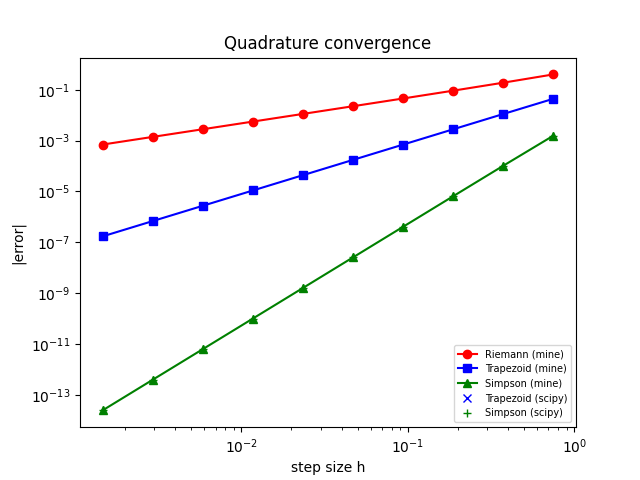
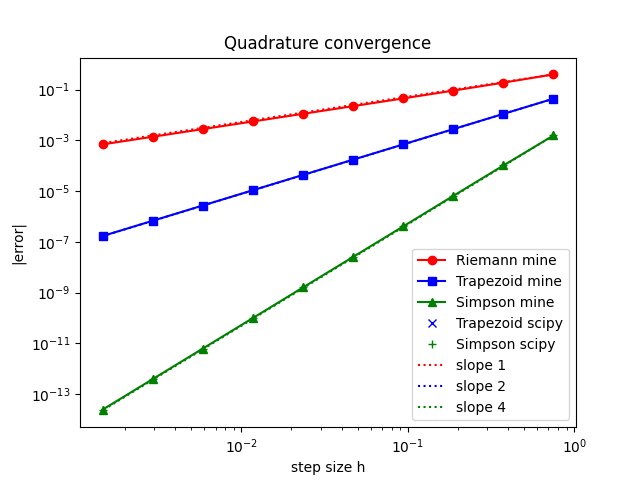
Debugging and writting comments to explain better

diff --git a/Project_1/main_integral.py b/Project_1/main_integral.py
@@ -1,5 +1,5 @@
 # main script for the integral (drag stopping distance) part
-# produces all figures needed for the report
+# runs the three experiments and saves the figures for the report
 
 import os
 import numpy as np
@@ -11,157 +11,163 @@ from src.quad_integrators import riemann, trapezoid, simpson
 from src.drag_stopping import velocity, exact_distance, v0, tau
 
 
-# where figures are saved
-fig_dir = os.path.join("report", "figures")
-os.makedirs(fig_dir, exist_ok=True)
+# make sure the figures folder exists
+os.makedirs("report/figures", exist_ok=True)
 
 
+# first experiment: compare all three rules to the exact answer at fixed n
+# The integral I want is x(T) = integral from 0 to T of v0*exp(-t/tau) dt.
+# Analytic answer: x(T) = v0*tau*(1 - exp(-T/tau)).
+# So I know the exact value and can measure the error of each rule.
+print("experiment 1: fixed n")
+T = 3.0
+n = 32
+exact = exact_distance(T)
+
+r = riemann(velocity, 0.0, T, n)
+t = trapezoid(velocity, 0.0, T, n)
+s = simpson(velocity, 0.0, T, n)
+
+# scipy versions on the same grid (should match mine exactly)
+xs = np.linspace(0.0, T, n + 1)
+ys = velocity(xs)
+t_scipy = scipy_trap(ys, xs)
+s_scipy = scipy_simp(ys, x=xs)
+
+print("exact =", exact)
+print("Riemann mine   =", r, "  error =", r - exact)
+print("Trapezoid mine =", t, "  error =", t - exact)
+print("Trapezoid scipy=", t_scipy, "  error =", t_scipy - exact)
+print("Simpson mine   =", s, "  error =", s - exact)
+print("Simpson scipy  =", s_scipy, "  error =", s_scipy - exact)
+
+# plot the integrand v(t) with the grid points on top
+t_plot = np.linspace(0.0, T, 200)
+plt.plot(t_plot, velocity(t_plot), "k-", label="v(t)")
+plt.plot(xs, velocity(xs), "ro", label="grid points")
+plt.xlabel("time")
+plt.ylabel("velocity")
+plt.title("Stopping distance integrand")
+plt.legend()
+plt.savefig("report/figures/integral_solutions.png")
+plt.close()
 
 
-def experiment_solutions():
-    # compare all rules at fixed n and plot the integrand
-    T = 3.0
-    n = 32
+# second experiment: convergence study
+# Each rule has an expected global error scaling like h^p:
+#   Riemann (left):   p = 1
+#   Trapezoid:        p = 2
+#   Simpson:          p = 4
+# So on a log-log plot of |error| vs step size h, I should see straight
+# lines with slopes 1, 2, 4.
+print("experiment 2: convergence")
+T = 3.0
+exact = exact_distance(T)
 
-    exact = exact_distance(T)
+ns = np.array([4, 8, 16, 32, 64, 128, 256, 512, 1024, 2048])
+hs = T / ns
 
-    r = riemann(velocity, 0.0, T, n)
-    t = trapezoid(velocity, 0.0, T, n)
-    s = simpson(velocity, 0.0, T, n)
+err_r = []
+err_t = []
+err_s = []
+err_t_scipy = []
+err_s_scipy = []
 
+for n in ns:
+    err_r.append(abs(riemann(velocity, 0.0, T, n) - exact))
+    err_t.append(abs(trapezoid(velocity, 0.0, T, n) - exact))
+    err_s.append(abs(simpson(velocity, 0.0, T, n) - exact))
     xs = np.linspace(0.0, T, n + 1)
     ys = velocity(xs)
-    t_scipy = scipy_trap(ys, xs)
-    s_scipy = scipy_simp(ys, x=xs)
+    err_t_scipy.append(abs(scipy_trap(ys, xs) - exact))
+    err_s_scipy.append(abs(scipy_simp(ys, x=xs) - exact))
 
-    print("T =", T, "n =", n, "exact =", exact)
-    print("Riemann (mine)   =", r, "  error =", r - exact)
-    print("Trapezoid (mine) =", t, "  error =", t - exact)
-    print("Trapezoid (scipy)=", t_scipy, "  error =", t_scipy - exact)
-    print("Simpson (mine)   =", s, "  error =", s - exact)
-    print("Simpson (scipy)  =", s_scipy, "  error =", s_scipy - exact)
+err_r = np.array(err_r)
+err_t = np.array(err_t)
+err_s = np.array(err_s)
+err_t_scipy = np.array(err_t_scipy)
+err_s_scipy = np.array(err_s_scipy)
 
-    # plot v(t) and the grid points
-    t_plot = np.linspace(0.0, T, 200)
-    plt.plot(t_plot, velocity(t_plot), "k-", label="v(t)")
-    plt.plot(xs, velocity(xs), "ro", label="grid points")
-    plt.xlabel("time")
-    plt.ylabel("velocity")
-    plt.title("Stopping distance integrand")
-    plt.legend()
+# reference slope lines
+ref_r = err_r[0] * (hs / hs[0])
+ref_t = err_t[0] * (hs / hs[0]) ** 2
+ref_s = err_s[0] * (hs / hs[0]) ** 4
 
-    path = os.path.join(fig_dir, "integral_solutions.png")
-    plt.savefig(path)
-    plt.close()
-    print("saved", path)
+plt.loglog(hs, err_r, "ro-", label="Riemann mine")
+plt.loglog(hs, err_t, "bs-", label="Trapezoid mine")
+plt.loglog(hs, err_s, "g^-", label="Simpson mine")
+plt.loglog(hs, err_t_scipy, "bx", label="Trapezoid scipy")
+plt.loglog(hs, err_s_scipy, "g+", label="Simpson scipy")
+plt.loglog(hs, ref_r, "r:", label="slope 1")
+plt.loglog(hs, ref_t, "b:", label="slope 2")
+plt.loglog(hs, ref_s, "g:", label="slope 4")
+plt.xlabel("step size h")
+plt.ylabel("|error|")
+plt.title("Quadrature convergence")
+plt.legend()
+plt.savefig("report/figures/integral_convergence.png")
+plt.close()
 
-
-
-def experiment_convergence():
-    # convergence study for the three rules
-    # expect slopes: Riemann=1, Trapezoid=2, Simpson=4
-    T = 3.0
-    exact = exact_distance(T)
-
-    ns = np.array([4, 8, 16, 32, 64, 128, 256, 512, 1024, 2048])
-    hs = T / ns
-
-    err_r = np.array([abs(riemann(velocity, 0.0, T, n) - exact) for n in ns])
-    err_t = np.array([abs(trapezoid(velocity, 0.0, T, n) - exact) for n in ns])
-    err_s = np.array([abs(simpson(velocity, 0.0, T, n) - exact) for n in ns])
-
-    # also compute scipy versions to check they match mine
-    err_t_scipy = []
-    err_s_scipy = []
-    for n in ns:
-        xs = np.linspace(0.0, T, n + 1)
-        ys = velocity(xs)
-        err_t_scipy.append(abs(scipy_trap(ys, xs) - exact))
-        err_s_scipy.append(abs(scipy_simp(ys, x=xs) - exact))
-    err_t_scipy = np.array(err_t_scipy)
-    err_s_scipy = np.array(err_s_scipy)
-
-    # reference lines
-    ref_r = err_r[0] * (hs / hs[0]) ** 1
-    ref_t = err_t[0] * (hs / hs[0]) ** 2
-    ref_s = err_s[0] * (hs / hs[0]) ** 4
-
-    plt.loglog(hs, err_r, "ro-", label="Riemann (mine)")
-    plt.loglog(hs, err_t, "bs-", label="Trapezoid (mine)")
-    plt.loglog(hs, err_s, "g^-", label="Simpson (mine)")
-    plt.loglog(hs, err_t_scipy, "bx", label="Trapezoid (scipy)")
-    plt.loglog(hs, err_s_scipy, "g+", label="Simpson (scipy)")
-    plt.xlabel("step size h")
-    plt.ylabel("|error|")
-    plt.title("Quadrature convergence")
-    plt.legend(fontsize=7)
-
-    path = os.path.join(fig_dir, "integral_convergence.png")
-    plt.savefig(path)
-    plt.close()
-    print("saved", path)
-
-    # print slopes
-    slope_r = np.polyfit(np.log(hs), np.log(err_r), 1)[0]
-    slope_t = np.polyfit(np.log(hs), np.log(err_t), 1)[0]
-    mask = err_s > 1e-13
-    slope_s = np.polyfit(np.log(hs[mask]), np.log(err_s[mask]), 1)[0]
-    print("  Riemann slope   =", slope_r)
-    print("  Trapezoid slope =", slope_t)
-    print("  Simpson slope   =", slope_s)
+# fit slopes to check they match 1, 2, 4
+slope_r = np.polyfit(np.log(hs), np.log(err_r), 1)[0]
+slope_t = np.polyfit(np.log(hs), np.log(err_t), 1)[0]
+# for Simpson skip the smallest h where error hits machine precision
+mask = err_s > 1e-13
+slope_s = np.polyfit(np.log(hs[mask]), np.log(err_s[mask]), 1)[0]
+print("Riemann slope   =", slope_r)
+print("Trapezoid slope =", slope_t)
+print("Simpson slope   =", slope_s)
 
 
-def experiment_limits():
-    # check the two physical limits from my plan:
-    # short time  T << tau  ->  x(T) ~ v0*T
-    # long time   T -> inf  ->  x(T) -> v0*tau
+# third experiment: physical limits from my plan
+# Short time (T << tau): the object hasn't slowed much yet, so
+#   x(T) ~ v0*T   (like free motion with no drag)
+# Long time (T -> infinity): the object never fully stops but the total
+# distance is finite. From the exact formula:
+#   x_infinity = v0*tau
+# So the numerical curve should approach v0*tau as T grows.
+print("experiment 3: physical limits")
 
-    # range of T
-    Ts = np.linspace(0.01, 20.0 * tau, 40)
+Ts = np.linspace(0.01, 20.0 * tau, 40)
 
-    # use Simpson with even n (careful, n must be even)
-    numeric = []
-    for T in Ts:
-        n = int(20 * T / tau)
-        if n < 4:
-            n = 4
-        if n % 2 != 0:
-            n = n + 1
-        numeric.append(simpson(velocity, 0.0, T, n))
-    numeric = np.array(numeric)
+# for each T, run Simpson with enough sub-intervals (must be even)
+numeric = []
+for T in Ts:
+    n = int(20 * T / tau)
+    if n < 4:
+        n = 4
+    if n % 2 != 0:
+        n = n + 1
+    numeric.append(simpson(velocity, 0.0, T, n))
+numeric = np.array(numeric)
 
-    exact = np.array([exact_distance(T) for T in Ts])
+exact = np.array([exact_distance(T) for T in Ts])
 
-    # two side-by-side plots
-    fig, (ax1, ax2) = plt.subplots(1, 2, figsize=(10, 4))
+# left plot: full curve with both asymptotes overlaid
+plt.subplot(1, 2, 1)
+plt.plot(Ts / tau, exact, "k-", label="exact")
+plt.plot(Ts / tau, numeric, "bo", label="Simpson")
+plt.axhline(v0 * tau, color="r", linestyle=":", label="v0*tau")
+plt.plot(Ts / tau, v0 * Ts, "g--", label="v0*T (no drag)")
+plt.xlabel("T / tau")
+plt.ylabel("x(T)")
+plt.ylim(0.0, 1.3 * v0 * tau)
+plt.title("Approach to asymptote")
+plt.legend()
 
-    # left: full curve with both asymptotes
-    ax1.plot(Ts / tau, exact, "k-", label="exact")
-    ax1.plot(Ts / tau, numeric, "bo", markersize=3, label="Simpson")
-    ax1.axhline(v0 * tau, color="r", linestyle=":", label="v0*tau")
-    ax1.plot(Ts / tau, v0 * Ts, "g--", label="v0*T (no drag)")
-    ax1.set_xlabel("T / tau")
-    ax1.set_ylabel("x(T)")
-    ax1.set_ylim(0.0, 1.3 * v0 * tau)
-    ax1.set_title("Approach to asymptote")
-    ax1.legend(fontsize=8)
+# right plot: how much x(T) deviates from v0*T at short times
+small_Ts = np.linspace(0.001, 0.5, 30) * tau
+small_num = np.array([simpson(velocity, 0.0, T, 32) for T in small_Ts])
+deviation = (small_num - v0 * small_Ts) / (v0 * small_Ts)
 
-    # right: short time deviation from v0*T
-    small_Ts = np.linspace(0.001, 0.5, 30) * tau
-    small_num = np.array([simpson(velocity, 0.0, T, 32) for T in small_Ts])
-    deviation = (small_num - v0 * small_Ts) / (v0 * small_Ts)
-    ax2.plot(small_Ts / tau, deviation, "bo-", markersize=3)
-    ax2.set_xlabel("T / tau")
-    ax2.set_ylabel("(x_num - v0*T) / (v0*T)")
-    ax2.set_title("Short-time deviation")
+plt.subplot(1, 2, 2)
+plt.plot(small_Ts / tau, deviation, "bo-")
+plt.xlabel("T / tau")
+plt.ylabel("(x_num - v0*T) / (v0*T)")
+plt.title("Short-time deviation")
 
-    plt.tight_layout()
-    path = os.path.join(fig_dir, "integral_limits.png")
-    plt.savefig(path)
-    plt.close()
-    print("saved", path)
+plt.tight_layout()
+plt.savefig("report/figures/integral_limits.png")
+plt.close()
 
-
-experiment_solutions()
-experiment_convergence()
-experiment_limits()
+print("done")
